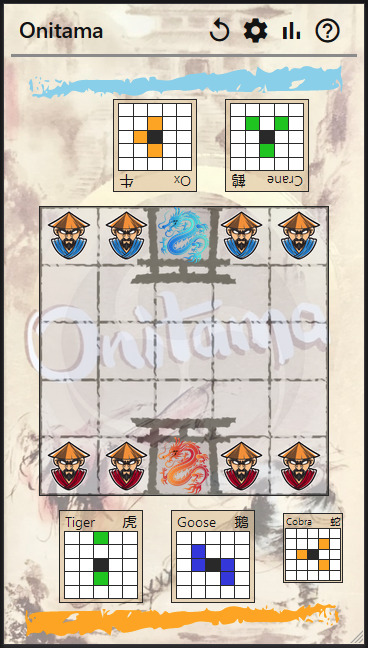
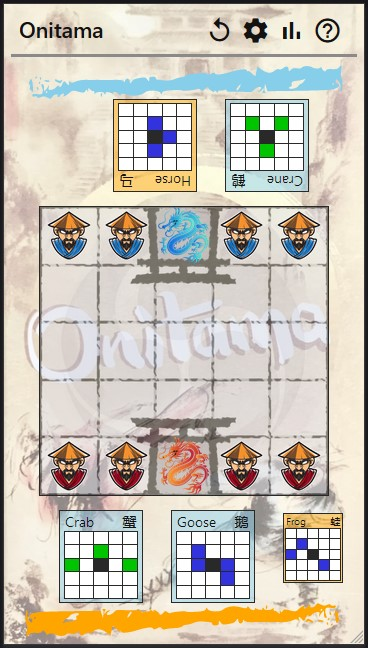
Added card background colors

diff --git a/src/Onitama.scss b/src/Onitama.scss
@@ -14,6 +14,8 @@
 	--ONITAMA-WEIGHT-KEY: 600;
 	--ONITAMA-PLAYER-COLOR-BLUE: #87CEEB;
 	--ONITAMA-PLAYER-COLOR-RED: #FFA500;
+	--ONITAMA-CARD-COLOR-BLUE: #87CEEB77;
+	--ONITAMA-CARD-COLOR-RED: #FFA50077;
 	--ONITAMA-CELL-RED: #FFA500;
 	--ONITAMA-CELL-GREEN: #00C400;
 	--ONITAMA-CELL-BLUE: #3333DD;
@@ -208,7 +210,7 @@ body, .onitama-wrapper {
 }
 
 .onitama-card-color-blue {
-	background-color: lighten(#87CEEB, 20%);
+	background-color: var(--ONITAMA-CARD-COLOR-BLUE);
 }
 
 .onitama-player-color-red {
@@ -222,7 +224,7 @@ body, .onitama-wrapper {
 }
 
 .onitama-card-color-red {
-	background-color: lighten(#FFA500, 40%);
+	background-color: var(--ONITAMA-CARD-COLOR-RED);
 }
 
 .onitama-cell-red {

diff --git a/src/Onitama.jsx b/src/Onitama.jsx
@@ -100,7 +100,11 @@ function Onitama() {
 	const renderCard = useCallback((card, isSpareCard = false) => {
 		return (
 			<>
-				<div className={classNames('onitama-card', { 'onitama-spare-card': isSpareCard })}>
+				<div className={classNames('onitama-card', {
+					'onitama-spare-card': isSpareCard,
+					'onitama-card-color-blue': card.rank === 'blue',
+					'onitama-card-color-red': card.rank === 'red'
+				})}>
 					<div id="onitamaCardHeader" className="onitama-card-header">
 						<span>{card.name}</span> <span>{card.glyph}</span>
 					</div>
